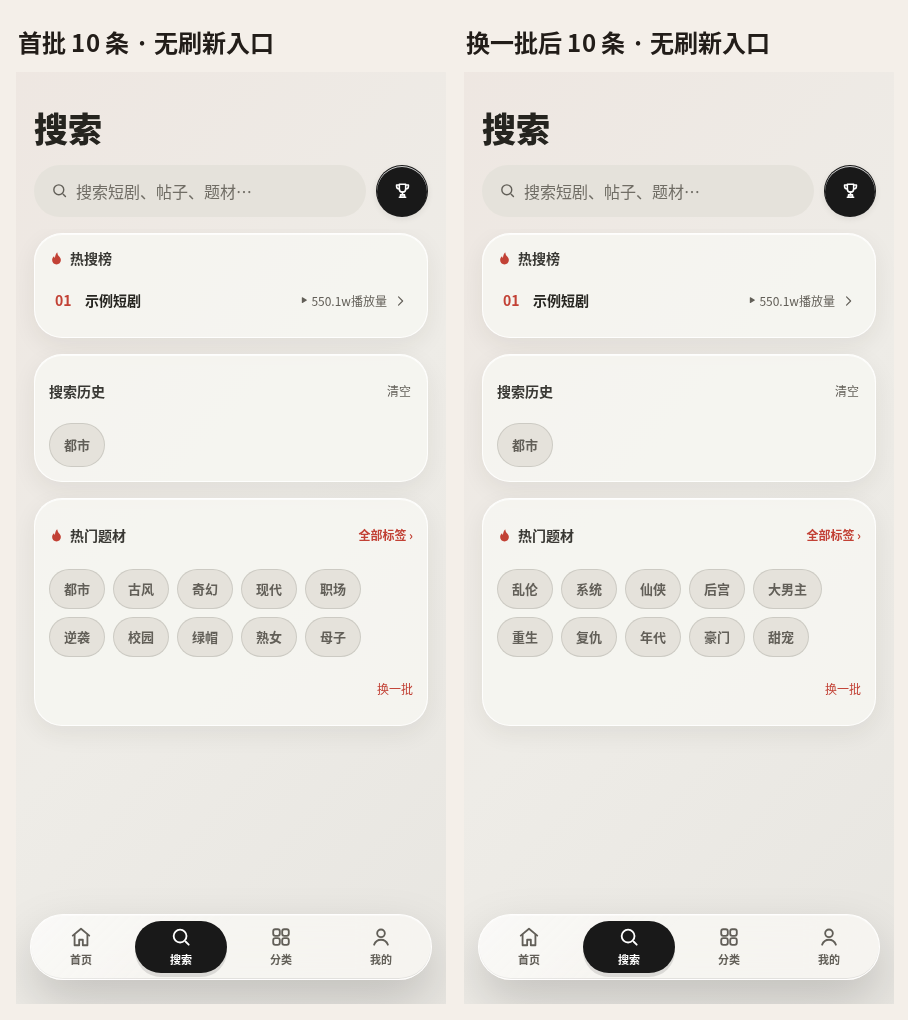
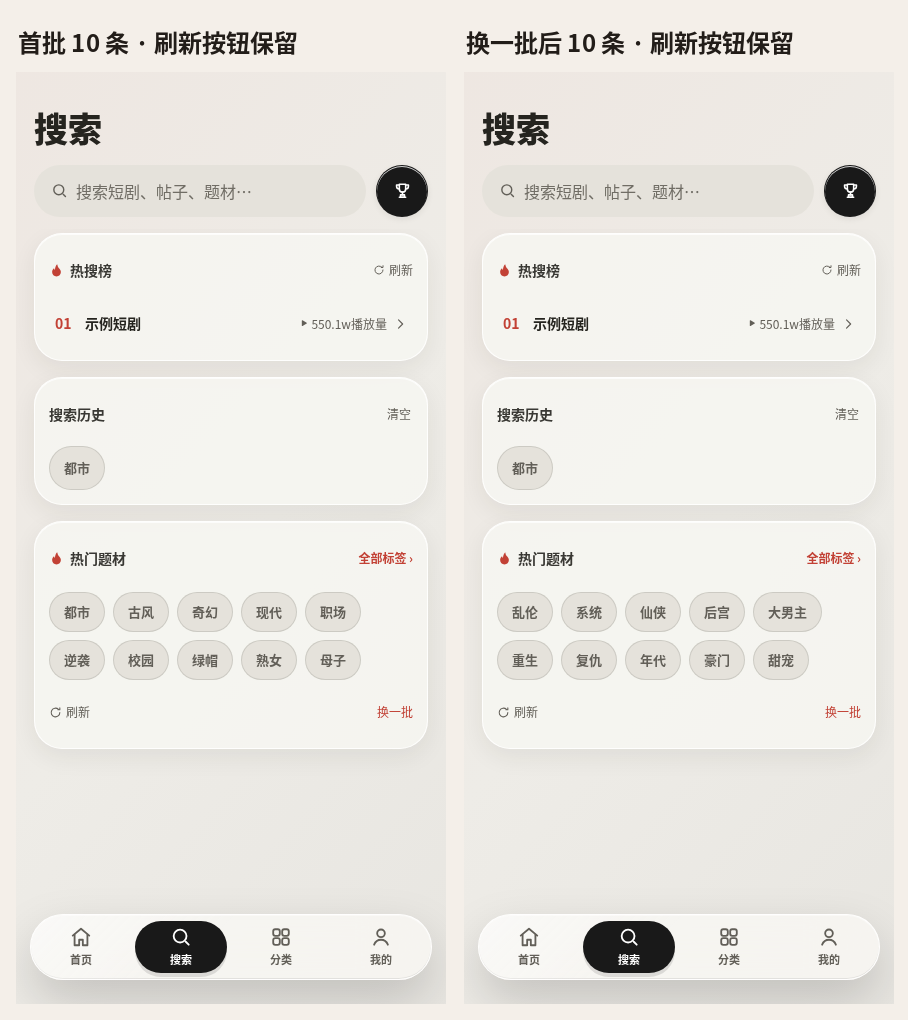
fix(search): keep hot list refresh buttons visible

diff --git a/src/features/search/SearchTags.tsx b/src/features/search/SearchTags.tsx
@@ -1,9 +1,10 @@
 import { useCallback, useEffect, useRef, useState } from "react";
+import { Loader } from "../../shared/ui/ios/effects";
 import { api } from "../../shared/api/api";
 import type { HotTagItem } from "../../shared/api/types";
 import { useContentPreferences } from "../../shared/model/contentPreferences";
 import { useStore } from "../../shared/model/store";
-import { IFireF } from "../../shared/ui/icons";
+import { IFireF, IRefresh } from "../../shared/ui/icons";
 import { Button, Surface } from "../../shared/ui/ios/controls";
 import { tr } from "../../shared/i18n";
 
@@ -63,7 +64,7 @@ export function SearchTags({ active }: { active: boolean }) {
       <Button onClick={() => push({ kind: "tags" })} className="-mr-2 px-2 inline-flex items-center justify-end min-h-9 text-[12px] text-primary font-semibold pressable">{tr("全部标签 ›")}</Button>
     </div>
     {error && <p role="status" className="mt-2 text-[12px] text-mut break-words">
-      {tr("标签暂未加载成功。")}{error}
+      {totalLoaded > 0 ? tr("刷新失败，保留已加载标签。") : tr("标签暂未加载成功。")}{error}
     </p>}
     {count > 0 ? <div className="flex flex-wrap gap-2 mt-3">
       {visible.map(tag => <Button key={tag.name}
@@ -72,9 +73,13 @@ export function SearchTags({ active }: { active: boolean }) {
     </div> : !error && <p role="status" className="mt-3 text-[13px] text-mut">
       {loading || tags === null ? tr("正在加载题材…") : totalLoaded > 0 ? tr("热门题材均已屏蔽，可在内容偏好中调整") : tr("暂无可用标签")}
     </p>}
-    {count > BATCH_SIZE && <div className="mt-2.5 flex justify-end">
-      <Button onClick={() => setBatch(value => (value + 1) % batchCount)}
-        className="-mr-2 px-2 min-h-9 inline-flex items-center justify-end text-[12px] text-primary pressable">{tr("换一批")}</Button>
-    </div>}
+    <div className="mt-2.5 flex flex-wrap items-center justify-between gap-2">
+      <Button onClick={() => void load()} disabled={loading} aria-label={tr("刷新题材")}
+        className="-ml-2 px-2 min-h-9 inline-flex items-center gap-1 text-[12px] text-mut pressable">
+        {loading ? <Loader className="w-3 h-3" /> : <IRefresh size={13} />}{loading ? tr("加载中…") : tr("刷新")}
+      </Button>
+      {count > BATCH_SIZE && <Button onClick={() => setBatch(value => (value + 1) % batchCount)}
+        className="-mr-2 px-2 min-h-9 inline-flex items-center justify-end text-[12px] text-primary pressable">{tr("换一批")}</Button>}
+    </div>
   </Surface>;
 }

diff --git a/src/features/search/Search.tsx b/src/features/search/Search.tsx
@@ -234,6 +234,10 @@ export default function Search({ active, wide }: { active: boolean; wide: boolea
             <Surface role="region" aria-label={tr("热搜榜")} className="mt-1 rounded-(--r-md) bg-s2 p-3.5 a-rise">
                 <div className="flex items-center justify-between gap-2">
                   <h2 className="flex items-center gap-1.5 text-[14px] font-semibold text-on/90"><IFireF size={15} className="text-primary" />{tr("热搜榜")}</h2>
+                  <Button onClick={() => void refreshHot()} disabled={hotLoading} aria-label={tr("刷新热搜榜")}
+                    className="-mr-2 px-2 inline-flex items-center justify-end gap-1 text-[12px] text-mut pressable">
+                    {hotLoading ? <Loader className="w-3 h-3" /> : <IRefresh size={12} />}{hotLoading ? tr("刷新中") : tr("刷新")}
+                  </Button>
                 </div>
                 {hotError && <p role="status" className="mt-2 text-[12px] text-mut leading-relaxed">
                   {hotVideos.length > 0 ? tr("刷新失败，保留上次榜单。") : tr("热搜榜暂不可用。")}{hotError}

diff --git a/src/shared/i18n/locales/en.ts b/src/shared/i18n/locales/en.ts
@@ -145,6 +145,10 @@ const en: Record<string, string> = {
   "创建账号": "Create Account",
   "删除所选观看历史": "Delete selected watch history",
   "删除搜索历史 {0}": "Delete search history {0}",
+  "刷新热搜榜": "Refresh trending searches",
+  "刷新中": "Refreshing",
+  "刷新题材": "Refresh genres",
+  "刷新失败，保留已加载标签。": "Refresh failed; keeping loaded genres.",
   "刷新": "Refresh",
   "刷新失败，保留上次榜单。": "Refresh failed; keeping previous rankings.",
   "刷新失败，保留当前内容。{0}": "Refresh failed; keeping current content. {0}",

diff --git a/src/shared/i18n/locales/zh-TW.ts b/src/shared/i18n/locales/zh-TW.ts
@@ -149,6 +149,10 @@ const zhTW: Record<string, string> = {
   "刷新失败，保留上次榜单。": "重新整理失敗，保留上次榜單。",
   "刷新失败，保留当前内容。{0}": "重新整理失敗，保留當前內容。{0}",
   "刷新榜单": "重新整理榜單",
+  "刷新热搜榜": "重新整理熱搜榜",
+  "刷新中": "重新整理中",
+  "刷新题材": "重新整理題材",
+  "刷新失败，保留已加载标签。": "重新整理失敗，保留已載入題材。",
   "前往下载": "前往下載",
   "剧集面板": "劇集面板",
   "加载中": "載入中",
